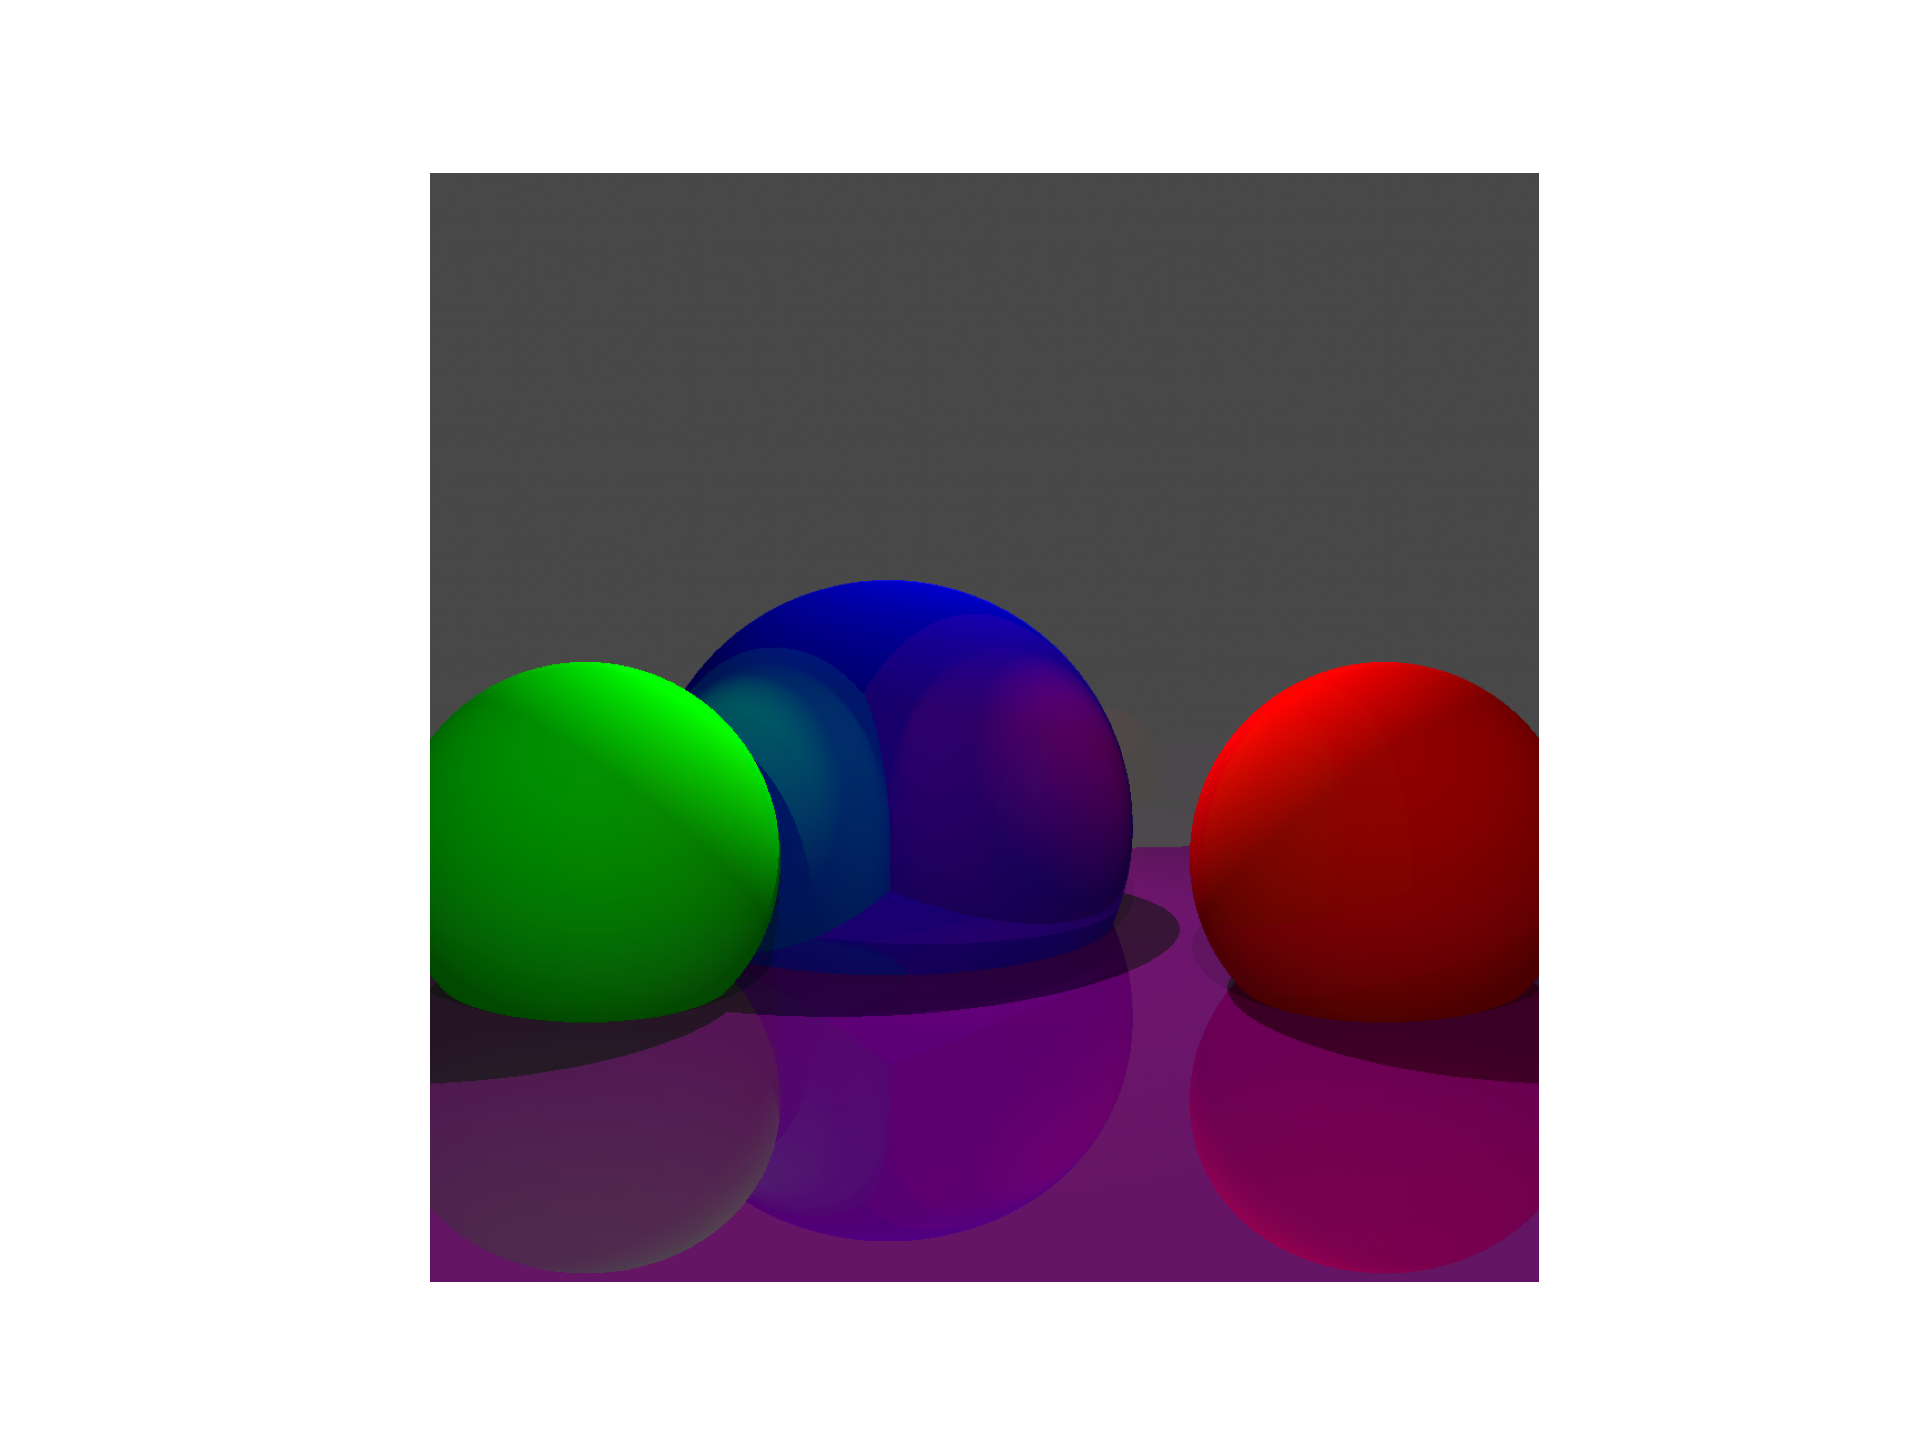
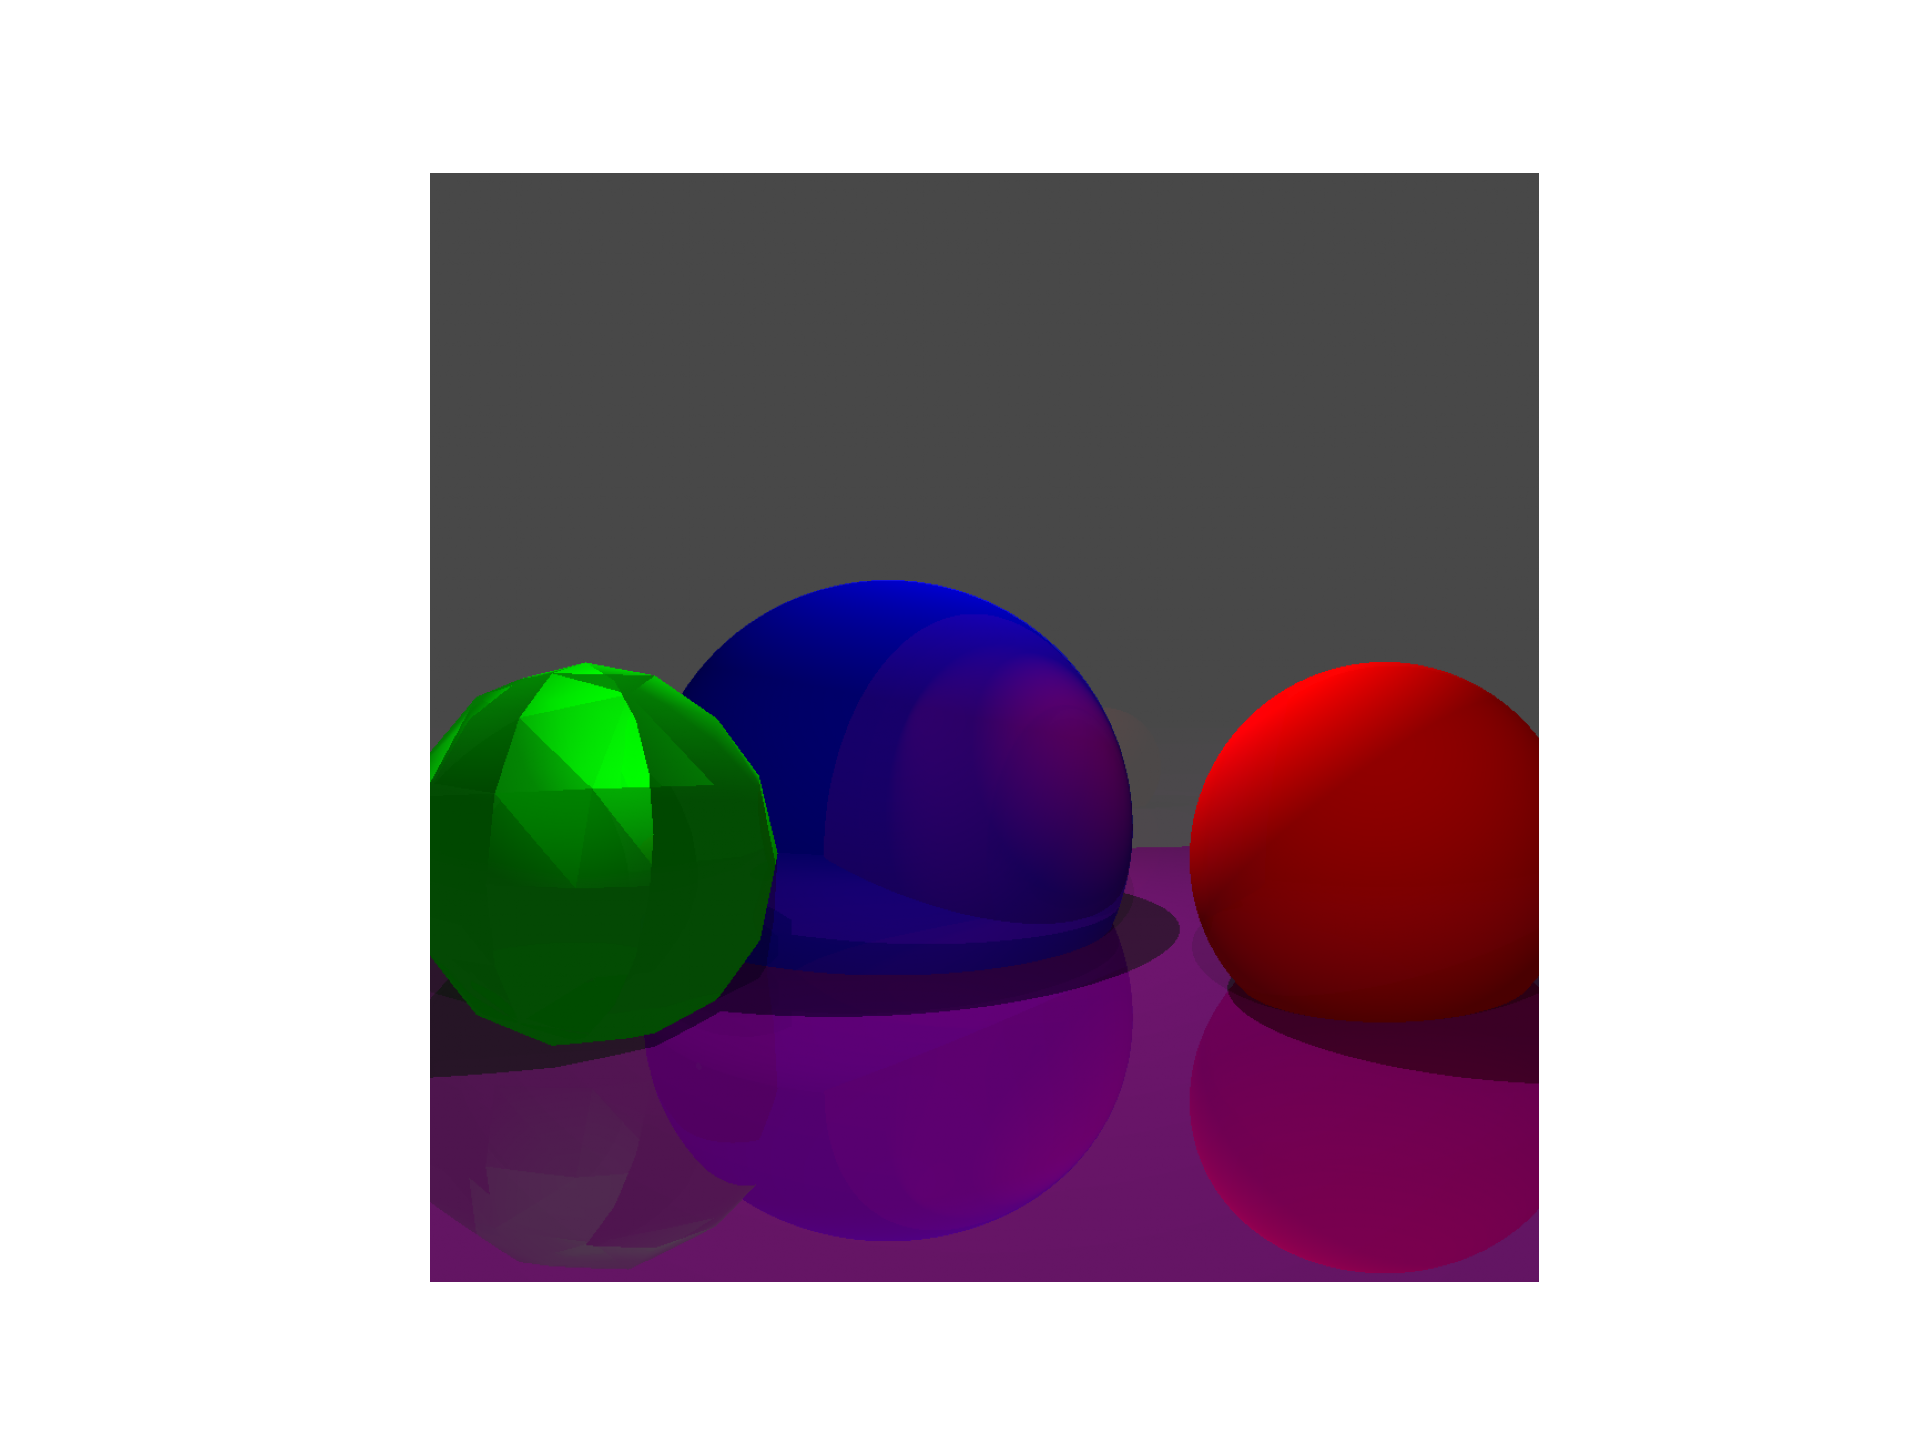
Triungalization update (still bad)

Changed region(s): [[0.2188, 0.4375, 0.4688, 0.8438], [0.3438, 0.8438, 0.375, 0.875]]

diff --git a/render/figures.cpp b/render/figures.cpp
@@ -43,13 +43,13 @@ Triangle::Triangle(Vec3 v1, Vec3 v2, Vec3 v3, Vec3 n1, Vec3 n2, Vec3 n3):
 }
 
 bool Triangle::check_intersection(Ray ray) {
-    if (abs(dot(N, ray.dir)) < 1e-10) return false; // проверка на параллельность
+    if (abs(dot(N, ray.dir)) < ZERO) return false; // проверка на параллельность
     double t = - (dot(N, ray.pos) + D) / dot(N, ray.dir);
     if (t < 0) return false; // смотрит в другую сторону
     Vec3 P = ray.pos + ray.dir * t; // точка пересечения
     double u = dot(P, U) - u0; // барицентрические
     double v = dot(P, V) - v0; // координаты
-    if (0 <= u && u <= 1 && 0 <= v && v <= 1 && u + v <= 1) {
+    if (-ZERO <= u && u <= 1 + ZERO && -ZERO <= v && v <= 1 + ZERO && u + v <= 1 + ZERO) {
         return true;
     } else {
         return false;
@@ -77,7 +77,11 @@ std::pair<int,std::string> Sphere::name() const{
 }
 
 SmartPoint Sphere::get_intersection_SmartPoint(Ray r) {
-    double min = 1e10; // ищем ближайшее пересечение
+    if (distance(r, position) > radius) {
+        return SmartPoint(false);
+    }
+
+    double min = INFINITY; // ищем ближайшее пересечение
     Triangle tr(false);
     Vec3 point;
     for (std::vector<Triangle>::iterator it = body.begin(); it != body.end(); it++) {
@@ -91,6 +95,7 @@ SmartPoint Sphere::get_intersection_SmartPoint(Ray r) {
     }
     if (!tr.valid) return SmartPoint(false); // нет пересечения
     Vec3 normal = tr.get_normal(point);
+    point = (point - position).normalized() * radius;
     return SmartPoint(point, normal, color, material);
 }
 
@@ -99,6 +104,8 @@ Object* Sphere::clone(std::vector<std::string> const & arg) {
     Sphere* rez = new Sphere();
     Vec3 center =  Vec3(atof(arg[0].c_str()),atof(arg[1].c_str()),atof(arg[2].c_str()));
     double radius = atof(arg[3].c_str());
+    rez->radius = radius;
+    rez->position = center;
     if (arg.size() >= 5) rez->color = Color(arg[4]);
     if (arg.size() >= 6) rez->material = Material(arg[5]);
     unsigned iterations = 2;
@@ -128,6 +135,7 @@ Object* Sphere::clone(std::vector<std::string> const & arg) {
         rez->body = next;
         next.clear();
     }
+
     return rez;
 }
 

diff --git a/drawer_tmp.py b/drawer_tmp.py
@@ -1,0 +1,34 @@
+from typing import Union, Any
+
+import numpy as np
+from matplotlib import pyplot as plt
+import sys
+from subprocess import Popen, PIPE
+
+def useless_func():
+    a = np.random.randn(256, 256, 3)
+    a = np.abs(a)
+    a[a > 1] = 0
+    plt.imshow(a)
+    plt.axis(False)
+    plt.show()
+
+def draw_men_with_dumplings_lol(PATH=None):
+    '''
+        input: (C, H, W) matrix
+    '''
+    if PATH is None:
+        sub_proc = Popen(["./run"], stdout=PIPE, universal_newlines=True)
+    (out, _) = sub_proc.communicate()
+    out = out.strip().split()
+    H, W, C = int(out[0]), int(out[1]), int(out[2])
+    picture = np.array(out[3:], dtype=float).reshape((H, W, C)) / 255
+    plt.axis(False)
+    plt.imshow(picture)
+    plt.savefig('scene.png', dpi = 300)
+
+if __name__ == "__main__":
+    PATH = None
+    if len(sys.argv) > 1:
+        PATH = sys.argv[1].strip()
+    draw_men_with_dumplings_lol(PATH)

diff --git a/render/lights.cpp b/render/lights.cpp
@@ -66,7 +66,9 @@ Object* Point_light::clone(std::vector<std::string> const &arg){
 
 double Point_light::intensity_in_point(SmartPoint smartpoint, std::vector<Figure*>* figures_pointer) {
     Ray target_ray = Ray(smartpoint.point, (position - smartpoint.point).normalized());
+    target_ray.pos = target_ray.pos + smartpoint.normal * ZERO;
     SmartPoint res = get_first_SmartPoint(target_ray, figures_pointer);
+
     if (!res.valid || ((position - smartpoint.point).abs() < (res.point - smartpoint.point).abs())) {
         double ret = - cos(smartpoint.point - position, smartpoint.normal) * intensity;
         return (ret > 0 ? ret : 0);

diff --git a/render/linal/linal.cpp b/render/linal/linal.cpp
@@ -79,6 +79,10 @@ Ray::Ray(Vec3 pos, Vec3 dir, unsigned x, unsigned y, double intensity):
      pos(pos), dir(dir), x(x), y(y), intensity(intensity) { }
 
 
+double distance(Ray r, Vec3 point) {
+    return (vv(r.dir, r.pos - point).abs());
+}
+
 // --------------------------------------------- Matr3 ---------------------------------------------
 
 Matr3::Matr3() {

diff --git a/render/material/material.cpp b/render/material/material.cpp
@@ -25,6 +25,11 @@ Material::Material(std::string name, double n): n(n) {
         t_refraction = 0.9;
         t_diffusion = 0;
     }
+    if (name == "mirror") {
+        t_reflection = 1;
+        t_refraction = 0;
+        t_diffusion = 0;
+    }
 }
 
 Material::Material(double t_reflection, double t_refraction, double t_diffusion, double n):

diff --git a/render/scene.h b/render/scene.h
@@ -78,6 +78,8 @@ class Sphere : public Figure, public Object {
 public:
     Color color = Color(255, 255, 255);;
     Material material = Material("dielectric");
+    Vec3 position = Vec3(0, 0, 0);
+    double radius = 0;
     std::vector<Triangle> body;
     Sphere() { }
     Object* clone(std::vector<std::string> const & arg);

diff --git a/render/scene.cpp b/render/scene.cpp
@@ -96,11 +96,9 @@ Object* Camera::clone(std::vector<std::string> const & arg){
     return rez;
 }
 
-
 std::pair<int, std::string> Camera::name() const {
     return std::pair<int,std::string>(CAMERA, "Camera");
 }
-
 
 // ------------------------------- scene -------------------------------
 

diff --git a/main.cpp b/main.cpp
@@ -12,9 +12,8 @@
 
 int main() {
     Scene r;
-    r.initialization("info.ass");
+    r.initialization("tmp_info.ass");
     r.render();
-
 
     Color** res = r.get_res();
     int height =  r.get_camera()->height();

diff --git a/render/linal/linal.h b/render/linal/linal.h
@@ -48,6 +48,8 @@ public:
     Ray(Vec3 pos, Vec3 dir, unsigned x, unsigned y, double intensity);
 };
 
+double distance(Ray r, Vec3 point);
+
 class Matr3 {
 public:
     double body[3][3];
